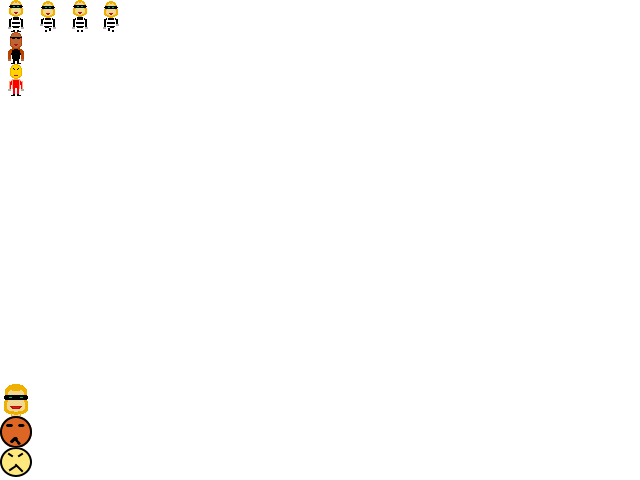
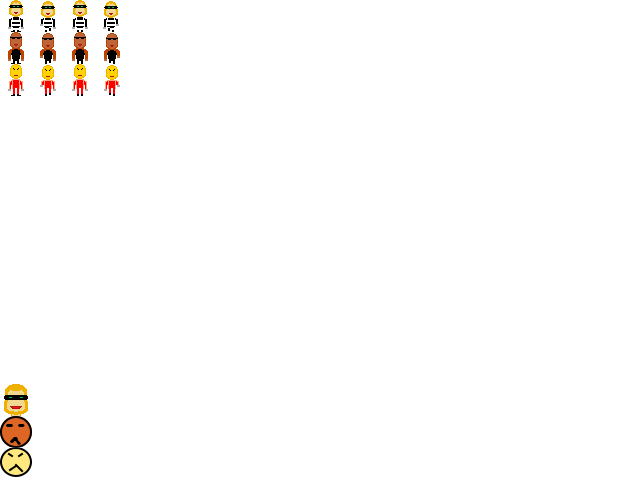
Added simple walking animation to guards

Changed region(s): [[0.0625, 0.0625, 0.1875, 0.1875]]

diff --git a/game/js/game.js b/game/js/game.js
@@ -298,6 +298,9 @@ if (typeof String.prototype.startsWith != 'function') {
             // The origin of every entity is at its center
             entity.x += entity.width / 2;
             entity.y -= entity.height / 2;
+            entity.oldx = entity.x;
+            entity.oldy = entity.y;
+
             entity.start = {
                 x: entity.x,
                 y: entity.y,
@@ -311,7 +314,8 @@ if (typeof String.prototype.startsWith != 'function') {
             };
 
             var ent_data = entities[entity.type];
-            entity.poses = ent_data ? ent_data.poses : undefined;
+            entity.poses = ent_data ? ent_data.poses : {};
+            entity.sounds = ent_data ? ent_data.sounds : {}; 
 
             if (entity.properties.speed) {
                 entity.start.speed = entity.speed = entity.properties.speed;
@@ -356,6 +360,18 @@ if (typeof String.prototype.startsWith != 'function') {
 
                    this.target = undefined;
                 }
+
+                // Deal with steps
+                var diffx = Math.abs(this.x - this.oldx);
+                var diffy = Math.abs(this.y - this.oldy);
+                if ((diffx * diffx) + (diffy * diffy) > 10 * 10) {
+                    this.oldx = this.x;
+                    this.oldy = this.y;
+                    this.anim.frame++;
+
+                    var step_sound = entity.sounds ? entity.sounds["step"] : undefined;
+                    if (step_sound) playAudio(step_sound);
+                } 
             }
 
             entity.update = function (dt) {
@@ -538,26 +554,10 @@ if (typeof String.prototype.startsWith != 'function') {
         function preparePlayer(entity, map) {
             var player = prepareEntity(entity, map);
 
-            player.oldx = player.x;
-            player.oldy = player.y;
 
             player.reset = function () {
                 this.treasures = 0;
                 this._reset();
-            }
-
-            player.update = function(dt) {
-                this._update(dt);
-                
-                var diffx = Math.abs(this.x - this.oldx);
-                var diffy = Math.abs(this.y - this.oldy);
-                if (diffx + diffy > 10) {
-                    this.oldx = this.x;
-                    this.oldy = this.y;
-                    this.anim.frame++;
-                    console.log(this.anim.frame);
-                    playAudio("step");
-                } 
             }
 
             player.reset();
